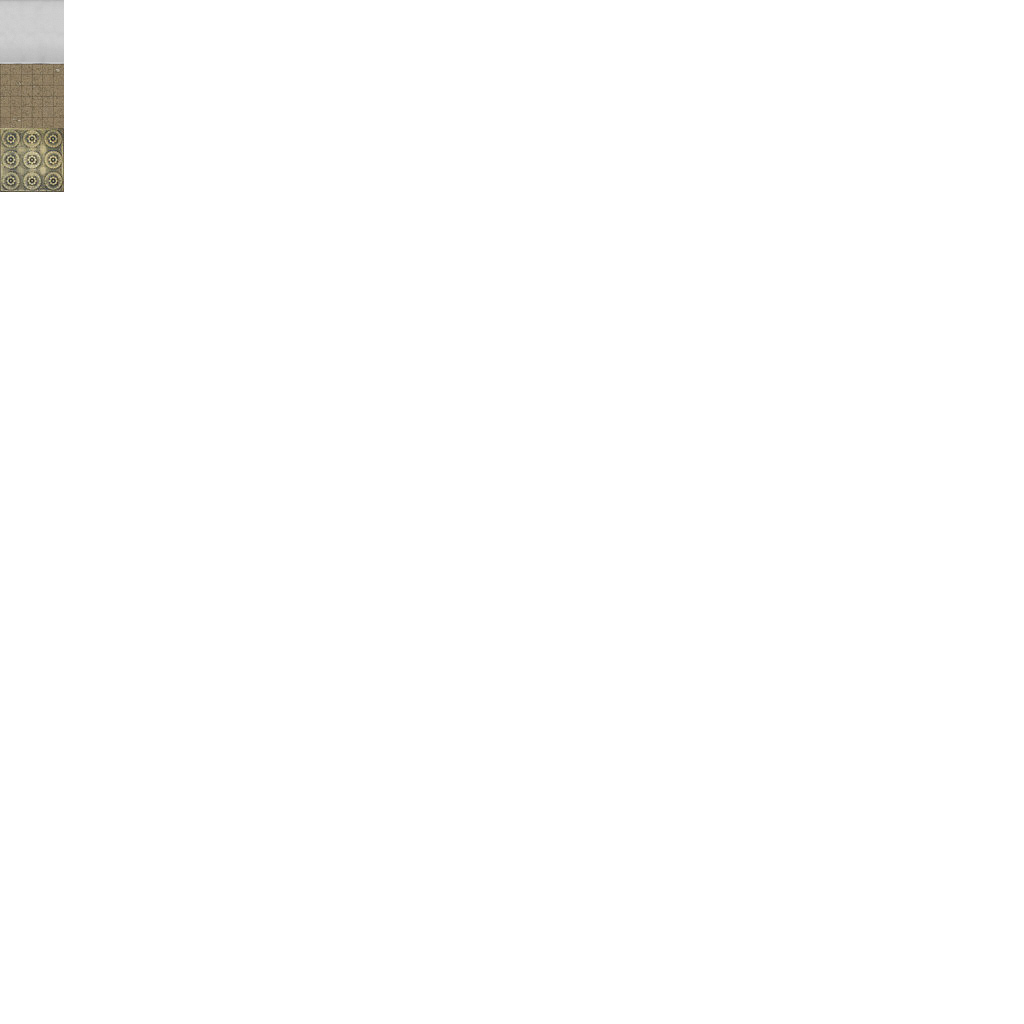
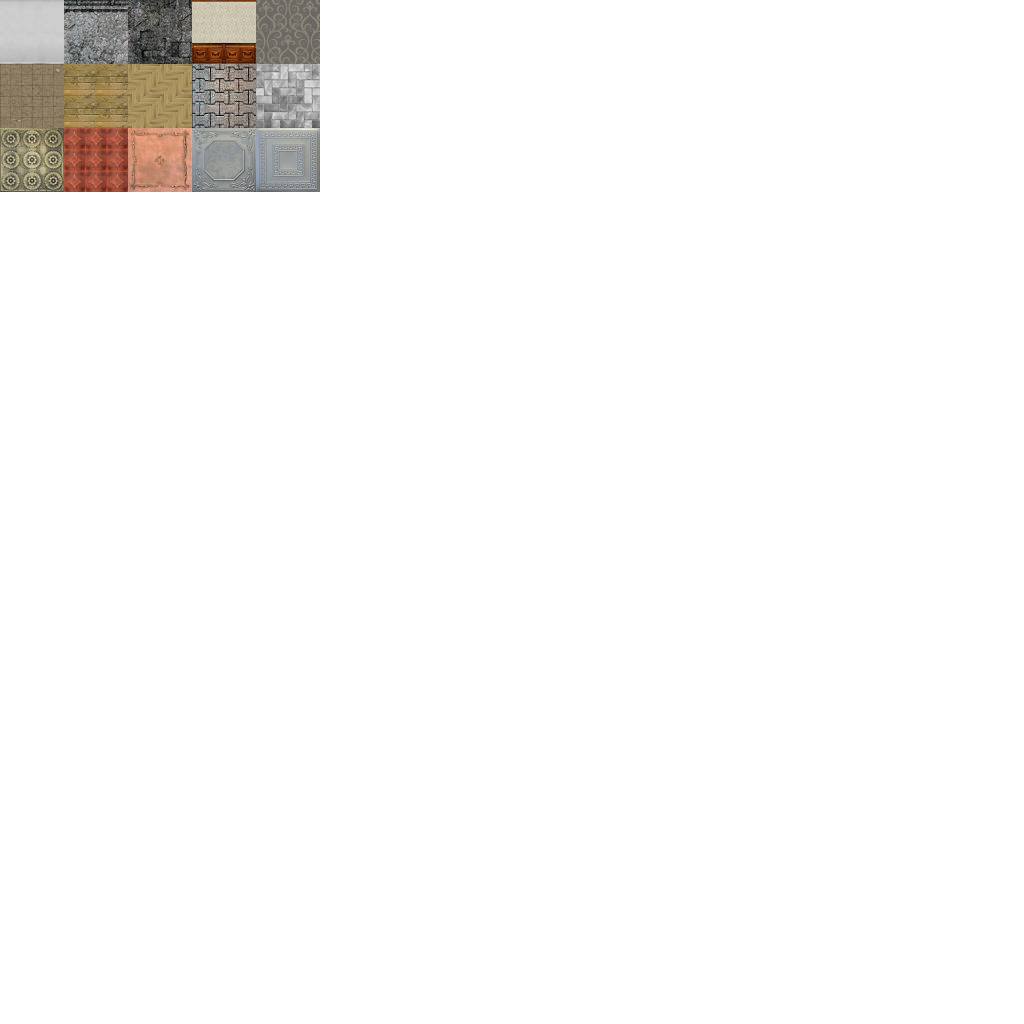
some new textures

Changed region(s): [[0.0625, 0.0, 0.3125, 0.1875]]

diff --git a/Content/LevelMap.cpp b/Content/LevelMap.cpp
@@ -647,7 +647,7 @@ void LevelMap::Render(const CameraFirstPerson& camera)
             float dy = (float)m_thumbTex.m_dim.y;
             auto cp = camera.GetPosition();
             XMFLOAT2 texPos(100,100);
-            XMFLOAT2 rotOrig(dx*0.5f+cp.x, dy*0.5f+cp.z);
+            XMFLOAT2 rotOrig(dx*0.5f, dy*0.5f);
             sprites->Draw(m_thumbTex.m_textureView.Get(), texPos, nullptr, Colors::White, -camera.m_pitchYaw.y, rotOrig, XMFLOAT2(4, 4));
         }
         break;
